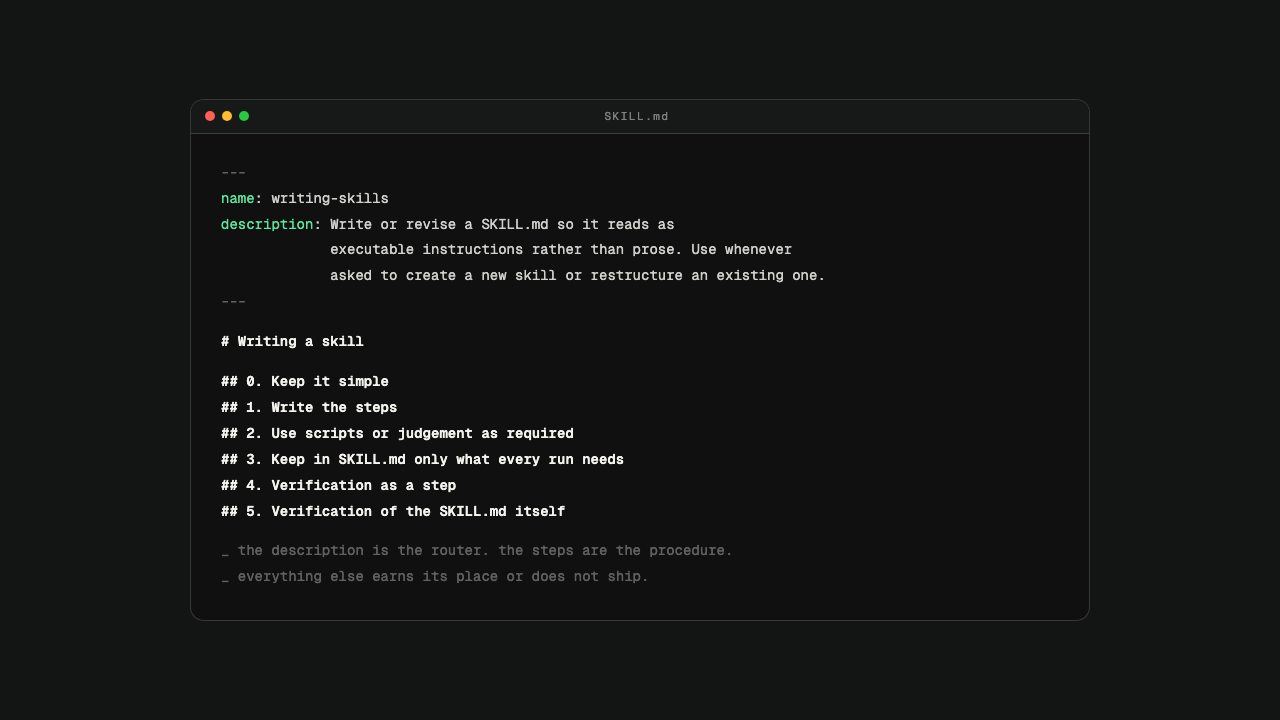
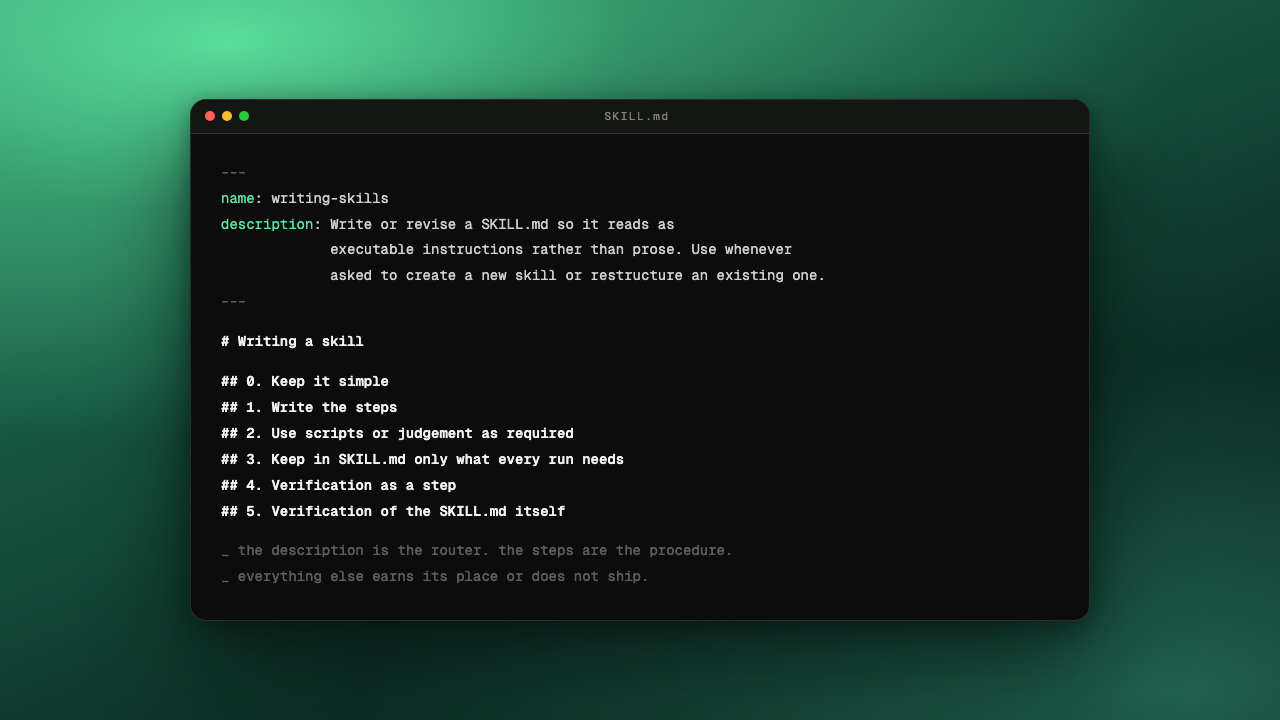
fix(blog): shorten the skill authoring summary and lift its featured image
The summary was 240 characters, well past the 140 to 185 the rest of the archive
sits at, and it rendered as a long typewriter subtitle in the post hero. Cuts it
to the three claims that matter: the description as a router, steps over prose,
and verification.

Replaces the featured image background with a neon green gradient falling away
into deep green, keeping the SKILL.md plate black so the code stays the subject.
The flat dark background read as an empty frame at card size; the gradient gives
the archive showcase and the social card something to hold.

diff --git a/src/content/blog/how-to-write-an-agent-skill/index.md b/src/content/blog/how-to-write-an-agent-skill/index.md
@@ -1,7 +1,7 @@
 ---
 title: How to Write an Agent Skill
 image: './featured.png'
-summary: 'An opinionated take on what belongs in a SKILL.md and what does not: the description as router, steps over prose, the line between a script and a judgement call, progressive disclosure, and how to verify a skill by making a blind agent run it.'
+summary: 'An opinionated take on what belongs in a SKILL.md and what to delete: the description as a router, steps over prose, and how to verify a skill.'
 tags: [agents, agent-skills, context-engineering, tooling]
 ---
 
